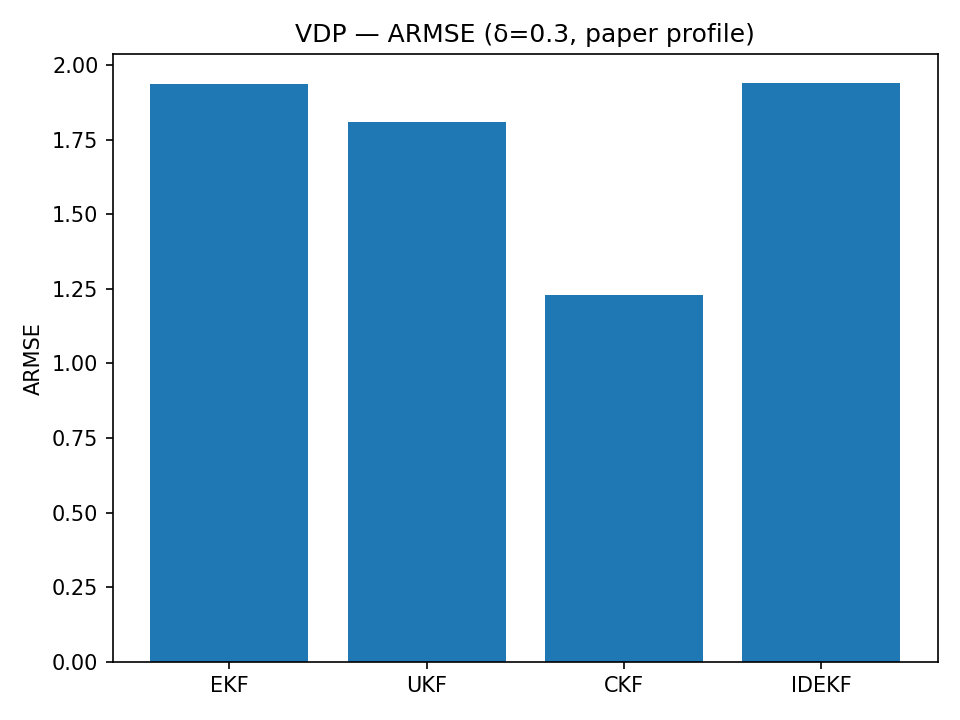
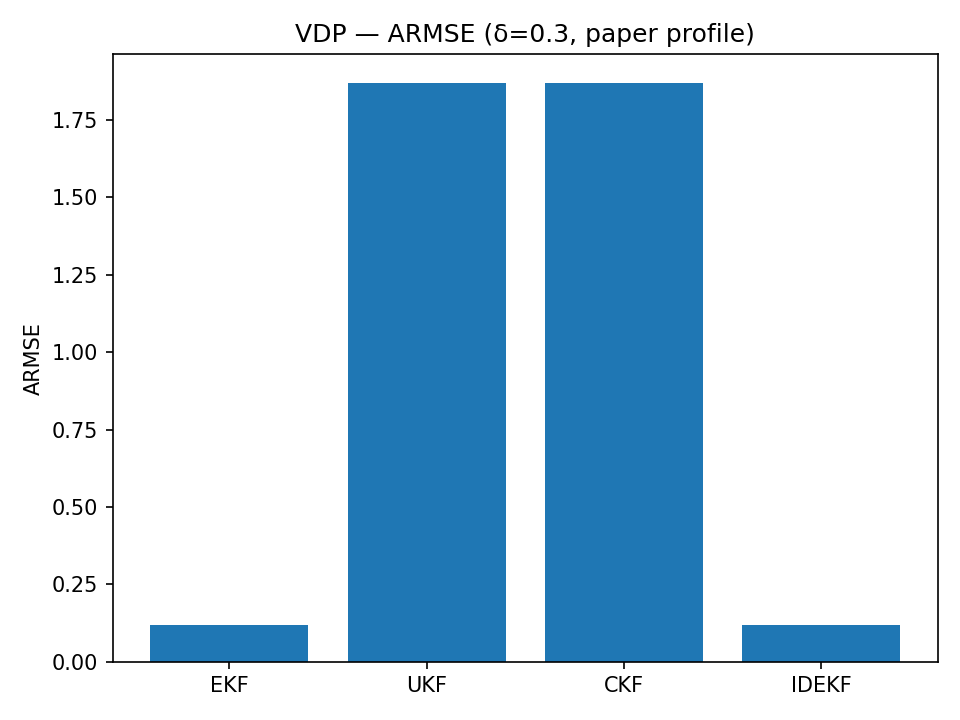
running 10 runs

diff --git a/run_armse.py b/run_armse.py
@@ -78,23 +78,28 @@ def run_cd(case: str, deltas: List[float], N_runs: int, seed: int, outdir: str,
 
         # Uniform sampling grid
         t_grid = np.arange(t0, tf + 1e-12, delta)
-        err = {k: [] for k in ["EKF", "UKF", "CKF", "IDEKF"]}
 
-        for _ in range(N_runs):
+        _, xs = integrate_truth(
+            f, J, t0, tf, x0, t_eval=t_grid,
+            rtol=truth_rtol, atol=truth_atol,
+            max_step=max_step_abs, method=integ_method
+        )
+        x_true = xs
+
+        err = {k: [] for k in ["EKF", "UKF", "CKF", "IDEKF"]}
+        chol_R = np.linalg.cholesky(ensure_psd(R))
+        noises = rng0.normal(size=(N_runs, len(t_grid), R.shape[0]))  
+        run_noises = np.einsum('ij,rkj->rki', chol_R, noises)
+
+
+        for run_i in range(N_runs):
             rng = np.random.default_rng(rng0.integers(1 << 32))
 
-            # ----- Truth: deterministic drift-only ODE (matches paper) -----
-            _, xs = integrate_truth(
-                f, J, t0, tf, x0, t_eval=t_grid,
-                rtol=truth_rtol, atol=truth_atol,
-                max_step=max_step_abs, method=integ_method
-            )
-            x_true = xs
+            noises_for_run = run_noises[run_i]
 
             # ----- Measurements: z_k = h(x_true(t_k)) + v_k -----
-            chol_R = np.linalg.cholesky(ensure_psd(R))
-            zs = np.array([h(x_true[k]) + chol_R @ rng.normal(size=R.shape[0])
-                           for k in range(len(t_grid))])
+            zs = np.array([h(x_true[k]) + noises_for_run[k] for k in range(len(t_grid))])
+
 
             # ----- Filters (fresh per run) with paper integrator settings -----
             ekf   = CDEKF(cm, h, H, R, rtol=flt_rtol, atol=flt_atol,
